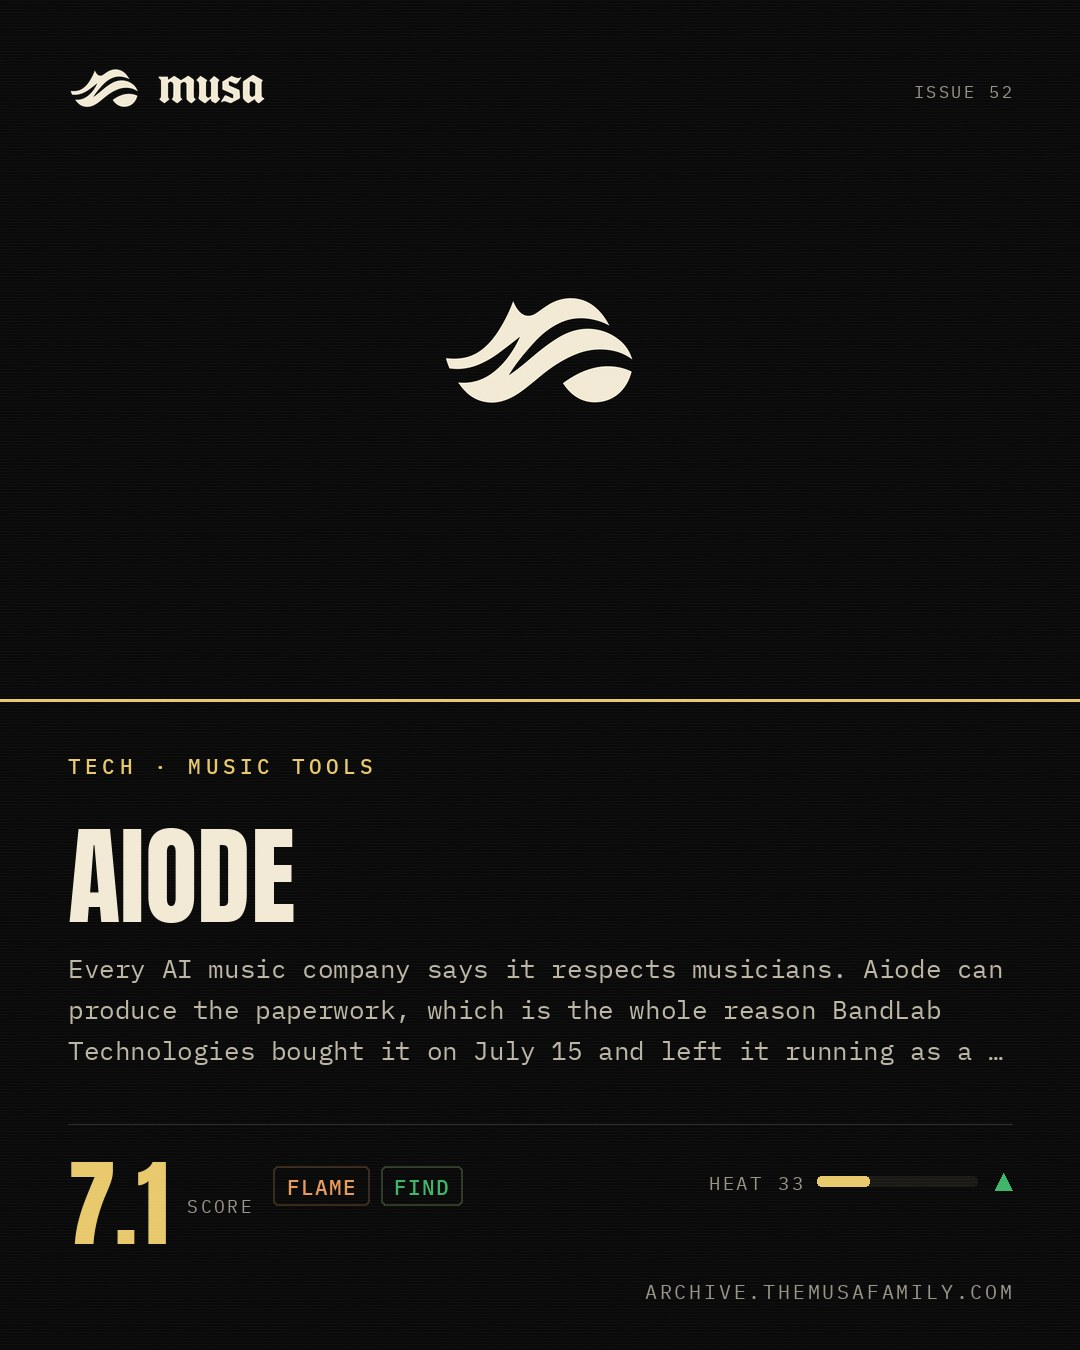
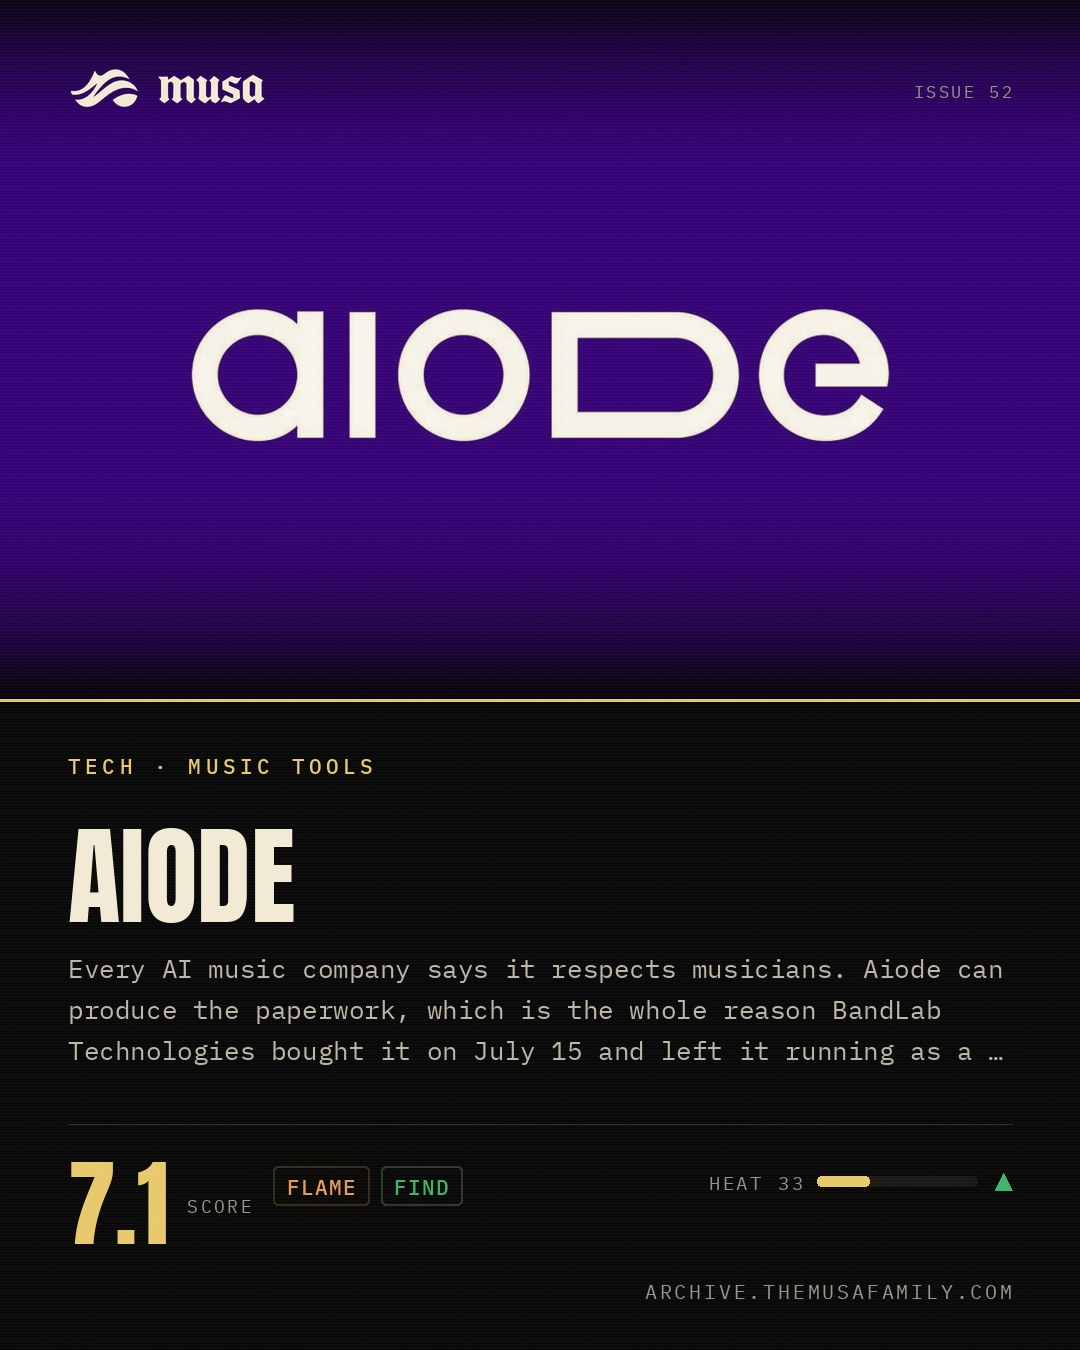
index: issue 52 art — FirstKlaz and Aiode supplied, Black Shield cover resourced

diff --git a/i/the-black-shield-wilbert-l-cooper/index.html b/i/the-black-shield-wilbert-l-cooper/index.html
@@ -131,7 +131,7 @@ footer b{font-family:var(--mono);font-size:9px;color:#b8b09c;letter-spacing:.2em
 </header>
 <div class="eyebrow">ISSUE 52 &nbsp;·&nbsp; <span class="a">AUG 4 2026</span> &nbsp;·&nbsp; BOOKS · REPORTED MEMOIR</div>
 <h1>The Black Shield — Wilbert L. Cooper</h1>
-<figure class="art"><img src="https://cdn11.bigcommerce.com/s-gjd9kmzlkz/images/stencil/1280x1280/products/283688/3780465/getimage__03408.1785250912.jpg?c=1" alt="The Black Shield — Wilbert L. Cooper" loading="lazy" onerror="this.onerror=null;this.src='https://archive.themusafamily.com/img/musa-mark.png';this.style.objectFit='contain';this.style.background='#0a0a0a'"></figure>
+<figure class="art"><img src="https://rep.club/cdn/shop/files/9780374613525.jpg?v=1777134090" alt="The Black Shield — Wilbert L. Cooper" loading="lazy" onerror="this.onerror=null;this.src='https://archive.themusafamily.com/img/musa-mark.png';this.style.objectFit='contain';this.style.background='#0a0a0a'"></figure>
 <div class="read">On his mother&#x27;s side there has been a Cleveland cop in the family since 1950. Both of Wilbert L. Cooper&#x27;s parents retired from the force, and his sister wore the uniform too. In 2020 he went home to profile the president of the Black Shield, a Black police association that had broken ranks with the rest of the department and lined up behind the reform demands coming out of the protests. Two complications arrived together: the man he came to profile had shot an unarmed young Black man years earlier, and the members received Cooper not as a reporter but as Sergeant Will Cooper&#x27;s son. What he builds from there braids two histories. One is a family that came north in the Great Migration and took policing because it was among the few routes to a house and a pension in a segregated city. The other is an organization that has spent decades cycling between rebellion and accommodation. A book this well-sourced on a subject this contested is arriving with almost no noise outside the trade; Kirkus gave it a star and nothing else has moved. Publishes August 25 by Farrar, Straus and Giroux — 416 pages, $32.</div>
 <div class="rail">
   <span class="sc">8.0<small>SCORE</small></span>

diff --git a/i/aiode/index.html b/i/aiode/index.html
@@ -131,7 +131,7 @@ footer b{font-family:var(--mono);font-size:9px;color:#b8b09c;letter-spacing:.2em
 </header>
 <div class="eyebrow">ISSUE 52 &nbsp;·&nbsp; <span class="a">AUG 4 2026</span> &nbsp;·&nbsp; TECH · MUSIC TOOLS</div>
 <h1>Aiode</h1>
-<figure class="art"><img src="https://archive.themusafamily.com/img/musa-mark.png" alt="Aiode" loading="lazy" style="height:320px;object-fit:contain;background:#0a0a0a" onerror="this.onerror=null;this.src='https://archive.themusafamily.com/img/musa-mark.png';this.style.objectFit='contain';this.style.background='#0a0a0a'"></figure>
+<figure class="art"><img src="https://archive.themusafamily.com/img/entries/aiode.jpg" alt="Aiode" loading="lazy" onerror="this.onerror=null;this.src='https://archive.themusafamily.com/img/musa-mark.png';this.style.objectFit='contain';this.style.background='#0a0a0a'"></figure>
 <div class="read">Every AI music company says it respects musicians. Aiode can produce the paperwork, which is the whole reason BandLab Technologies bought it on July 15 and left it running as a standalone product with both founders in place. All of the audio behind its models is licensed and traceable to source, and the musician models are made with the players directing how their own style gets used. The workflow is deliberately narrow: bring a track you are already writing, then hire a virtual session player to take one pass at one section and keep the rest untouched. The roster is still shallow, which is the honest ceiling on a good idea, and native recording is promised without a date.</div>
 <div class="rail">
   <span class="sc">7.1<small>SCORE</small></span>

diff --git a/i/firstklaz/index.html b/i/firstklaz/index.html
@@ -131,7 +131,7 @@ footer b{font-family:var(--mono);font-size:9px;color:#b8b09c;letter-spacing:.2em
 </header>
 <div class="eyebrow">ISSUE 52 &nbsp;·&nbsp; <span class="a">AUG 4 2026</span> &nbsp;·&nbsp; MUSIC · AREWA POP</div>
 <h1>FirstKlaz</h1>
-<figure class="art"><img src="https://archive.themusafamily.com/img/musa-mark.png" alt="FirstKlaz" loading="lazy" style="height:320px;object-fit:contain;background:#0a0a0a" onerror="this.onerror=null;this.src='https://archive.themusafamily.com/img/musa-mark.png';this.style.objectFit='contain';this.style.background='#0a0a0a'"></figure>
+<figure class="art"><img src="https://archive.themusafamily.com/img/entries/firstklaz.jpg" alt="FirstKlaz" loading="lazy" onerror="this.onerror=null;this.src='https://archive.themusafamily.com/img/musa-mark.png';this.style.objectFit='contain';this.style.background='#0a0a0a'"></figure>
 <div class="read">Abuja, not Lagos. FirstKlaz builds around the kalangu and the goje, the Hausa talking drum and the two-stringed fiddle, and the Gen-Z Arewa run pushed Northern instrumentation into Afropop without sanding it down. Olamide, Joeboy and ODUMODUBLVCK co-signed, and he toured seven states. Against all of that sits one seven-track EP, Déjàvu. The ability is not the question; the catalog is. An album closes this gap, and there isn&#x27;t one yet.</div>
 <div class="rail">
   <span class="sc">6.6<small>SCORE</small></span>
